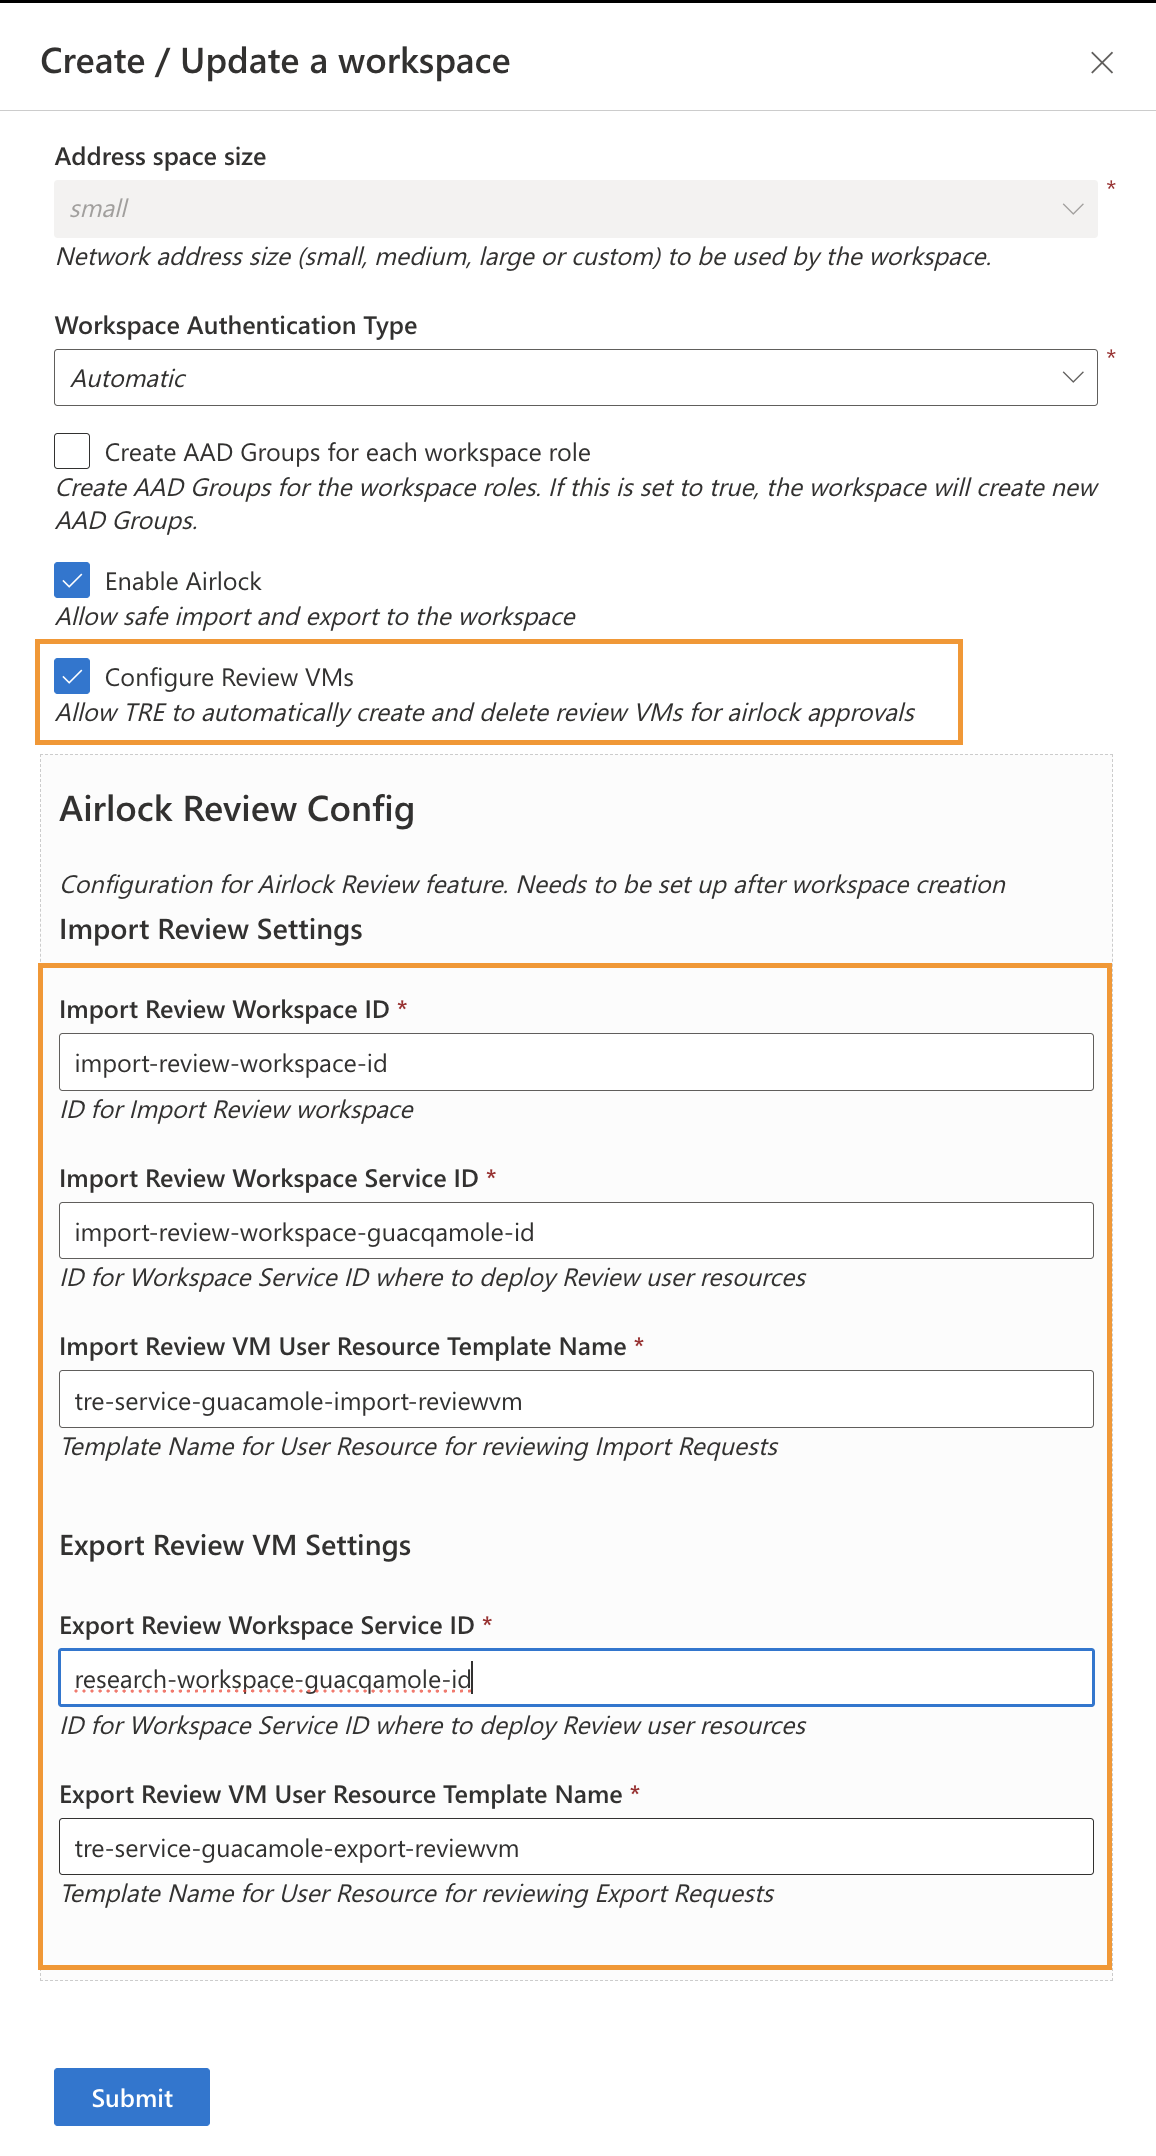
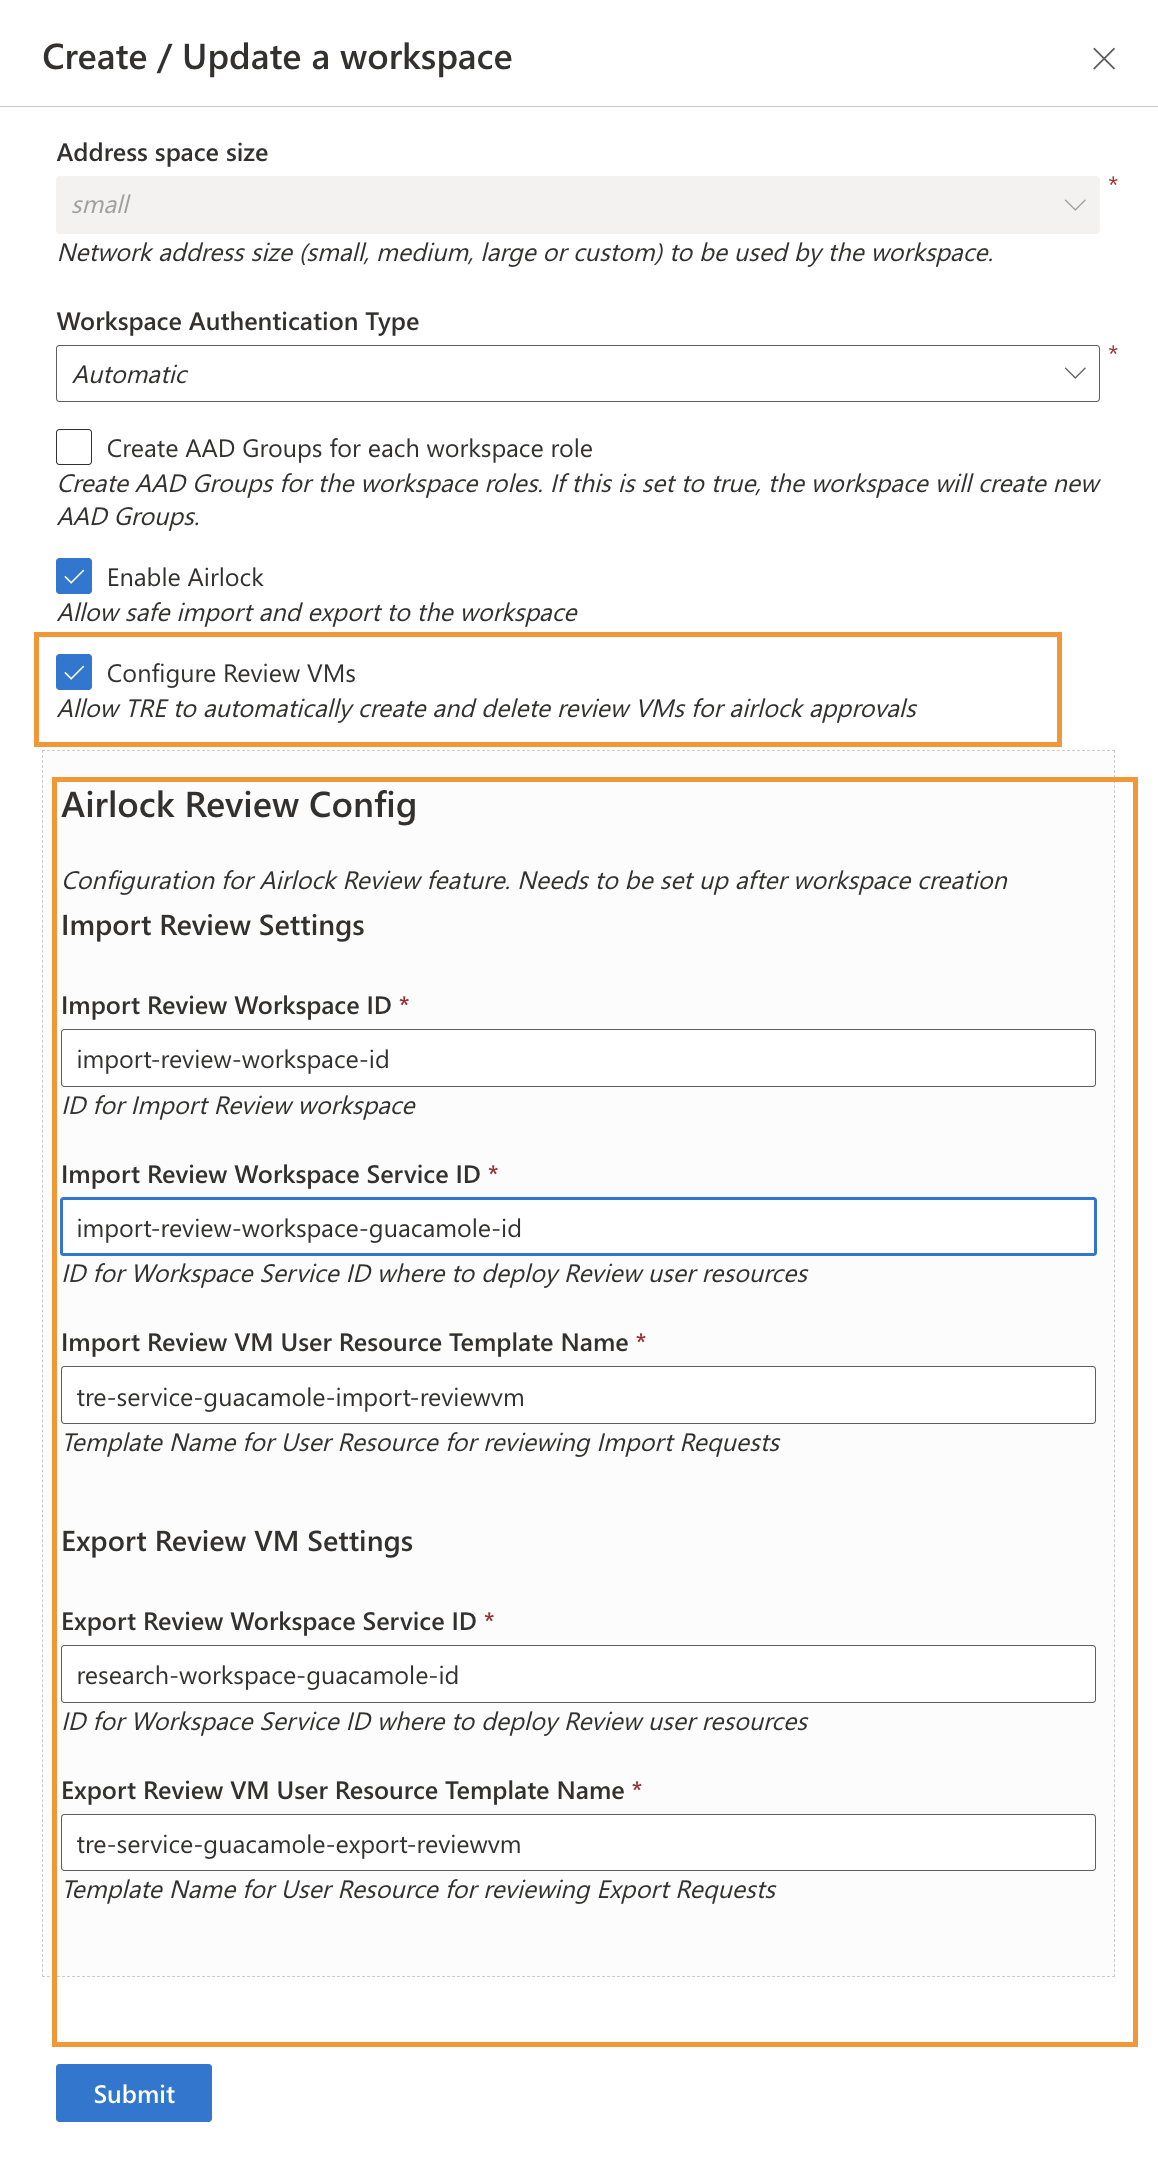
Add example on configure properties

diff --git a/docs/tre-admins/configure-airlock-review.md b/docs/tre-admins/configure-airlock-review.md
@@ -20,7 +20,7 @@ To configure the feature, the following prerequisites need to be fulfilled:
 
 For import:
 
-1. [Airlock Import Workspace](../tre-templates/workspaces/airlock-import-review.md) A dedicated worspace used for import reviews. It needs to be deployed once per TRE. To make this template available in your TRE run the following make command:
+1. [Airlock Import Workspace](../tre-templates/workspaces/airlock-import-review.md) A dedicated workspace used for import reviews. It needs to be deployed once per TRE. To make this template available in your TRE run the following make command:
 `make workspace_bundle BUNDLE=airlock-import-review`
 Note: TRE Admin permissions are required to register the template
 Having the template in place. Deploy a new workspace using that template that will be used for Airlock import reviews.
@@ -63,11 +63,11 @@ For troubleshooting guidance please review [the airlock troubleshooting FAQ](../
 
 ## Example
 
-I have a research workspace called Umbrella. It was created using a base workspace template (it can be any other template or custom template) and it was it was created withought configuring any airlock review properties. For the sake of example lets say the workspace id is - `research-workspace-id`
+I have a research workspace called Umbrella. It was created using a base workspace template (it can be any other template or custom template) and it was it was created without configuring any airlock review properties. For the sake of example lets say the workspace id is - `research-workspace-id`
 
 [![Create Research Workspace](../assets/airlock-review/workspace-creation.png)](../assets/airlock-review/workspace-creation.png)
 
-I have created a Guacamole workspace service inside the Umbrella workspace and called it Virtual Desktops. I will be using this Virtual Desktops service to spin up review VMs for **export**. For the sake of example lets say this workspace service id is - `research-workspace-guacqamole-id`
+I have created a Guacamole workspace service inside the Umbrella workspace and called it Virtual Desktops. I will be using this Virtual Desktops service to spin up review VMs for **export**. For the sake of example lets say this workspace service id is - `research-workspace-guacamole-id`
 
 [![Research Workspace Guacamole](../assets/airlock-review/research-workspace-guacamole-for%20export-reviews.png)](../assets/airlock-review/research-workspace-guacamole-for%20export-reviews.png)
 
@@ -75,13 +75,13 @@ The next thing I did  is create an Airlock Import Review Workspace using Airlock
 
 [![Import Review Workspace](../assets/airlock-review/create-airlock-import-review-workspace.png)](../assets/airlock-review/create-airlock-import-review-workspace.png)
 
-And inside of it I have created a Guacamole workspace service called Virtual Desktops. I will be using this Virtual Desktops service to spin up review VMs for **import**. For the sake of example lets say this workspace service id is - `import-review-workspace-guacqamole-id`
+And inside of it I have created a Guacamole workspace service called Virtual Desktops. I will be using this Virtual Desktops service to spin up review VMs for **import**. For the sake of example lets say this workspace service id is - `import-review-workspace-guacamole-id`
 
-[![Update Reserach Workspace](../assets/airlock-review/airlock-import-review-workspace-guacamole.png)](../assets/airlock-review/airlock-import-review-workspace-guacamole.png)
+[![Update Research Workspace](../assets/airlock-review/airlock-import-review-workspace-guacamole.png)](../assets/airlock-review/airlock-import-review-workspace-guacamole.png)
 
 Now I basically have everything in place. I can configure now the review VM properties in my Research Workspace - Umbrella. I will click update on it -
 
-[![Update Reserach Workspace](../assets/airlock-review/update-research-workspace.png)](../assets/airlock-review/update-research-workspace.png)
+[![Update Research Workspace](../assets/airlock-review/update-research-workspace.png)](../assets/airlock-review/update-research-workspace.png)
 
 
 And fill in the ids -
